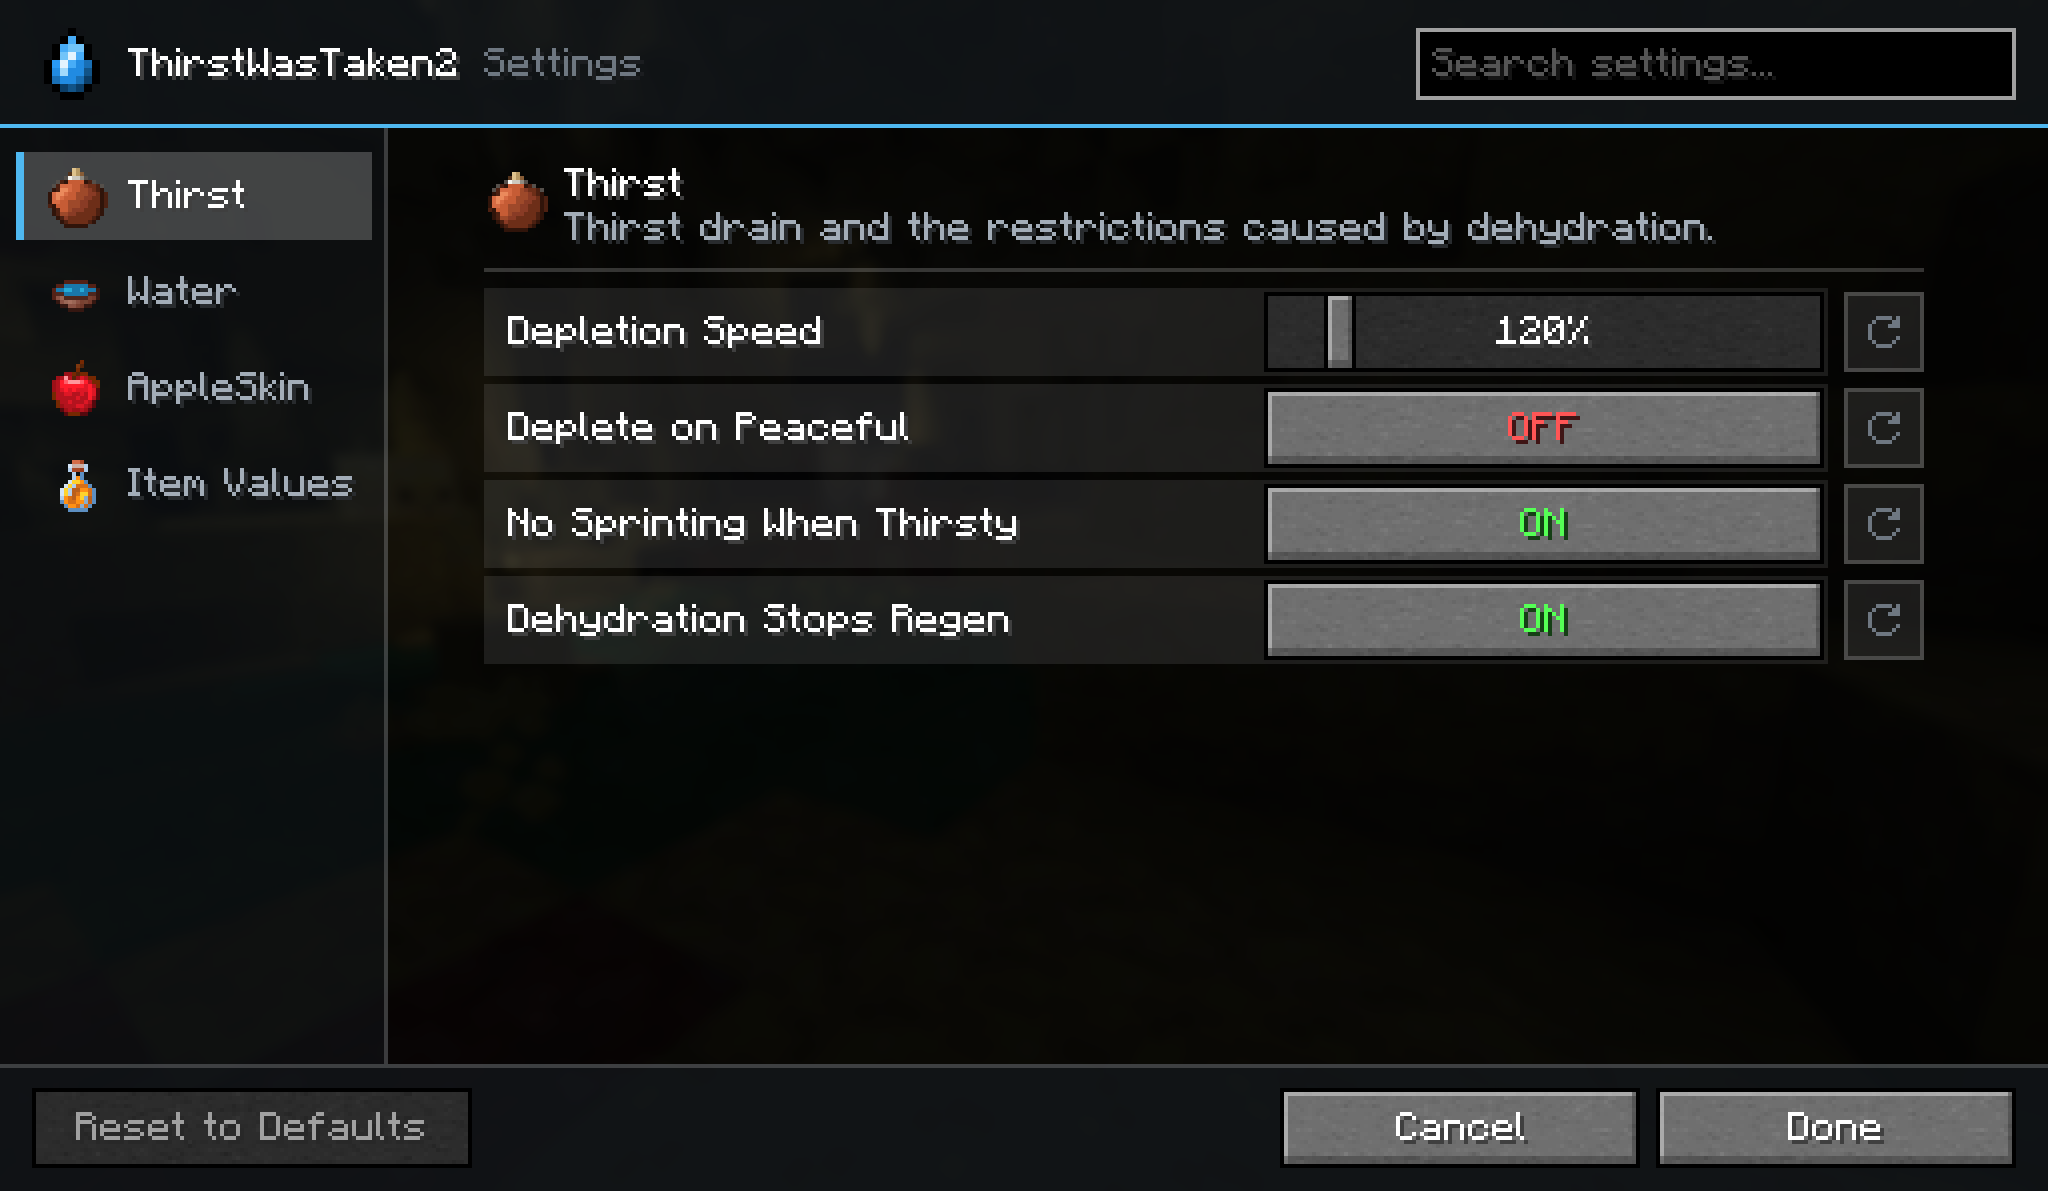
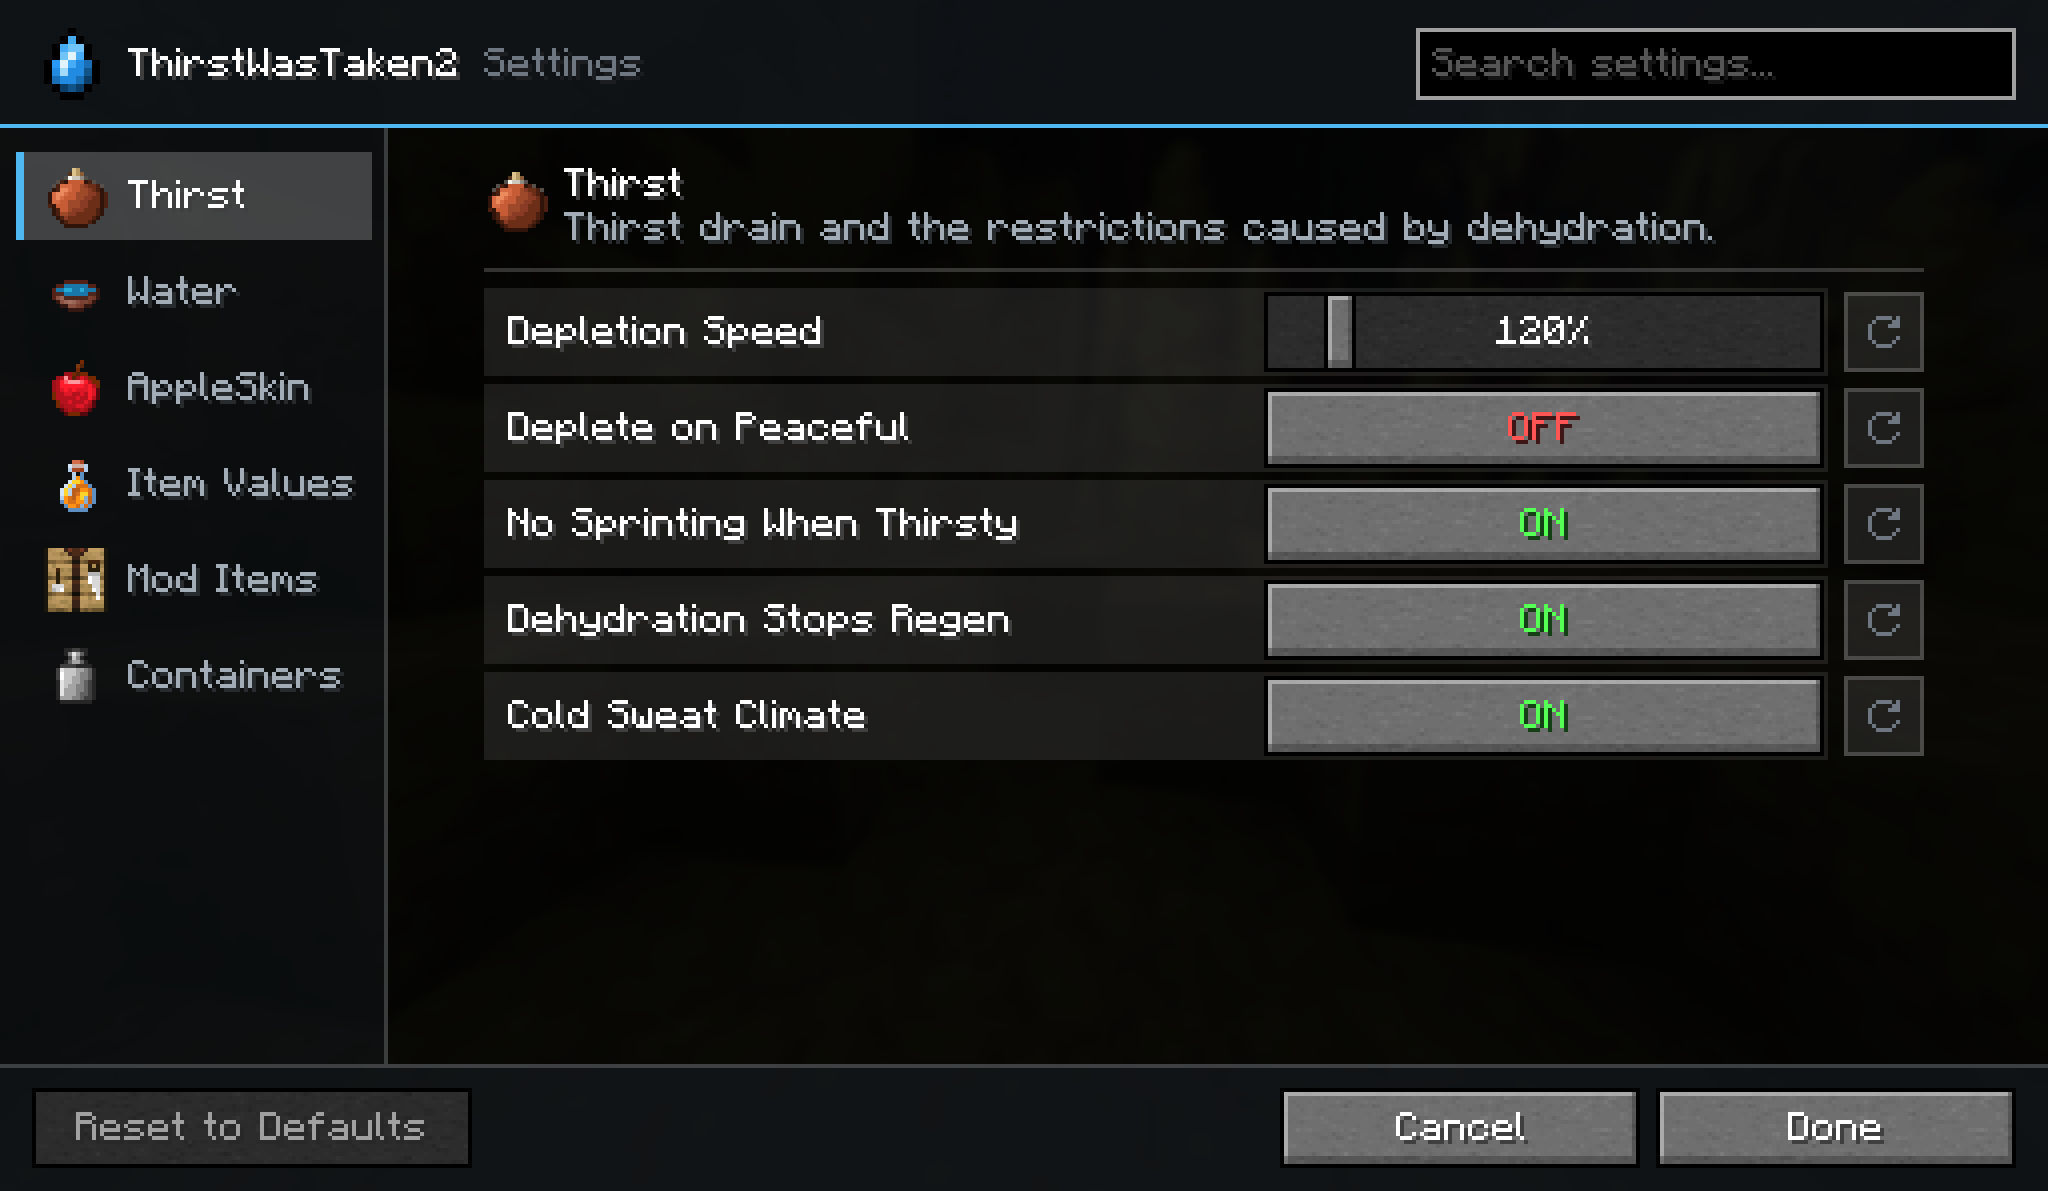
docs: retake config screenshots with the new pages, and add Water, Mod Items and Containers images

Changed region(s): [[0.5938, 0.5592, 0.9375, 0.6524], [0.25, 0.5592, 0.5312, 0.6524], [0.0, 0.4349, 0.1875, 0.5903]]

diff --git a/docs/docs/configuration.md b/docs/docs/configuration.md
@@ -41,6 +41,8 @@ the player, hearths and shade included, instead of the biome's. Does nothing wit
 
 ## Water
 
+![The Water page scrolled down to the new settings: quenched by grade, sea water, rain and dripstone](/screenshots/config/config-water.png)
+
 ### sicknessPreset
 
 Default `REALISTIC`. How bad water makes players ill.
@@ -148,6 +150,8 @@ Words that stop a guess, so `melon_seed` is not treated as fruit. Only applies t
 
 ## Mod items
 
+![The Mod Items page: one switch per item, under a note that changes apply after /reload](/screenshots/config/config-mod-items.png)
+
 For a modpack that brings its own canteen or pot. A switch that is off stops the item being crafted
 and hides it from the creative tab. Items that already exist keep working, and the item stays in the
 game, so worlds that hold one still load.
@@ -178,6 +182,8 @@ Default `true`. The Iron Flask, and cleaning its water in a furnace.
 Default `true`. The Copper Hanging Pot and the Iron Hanging Pot, one switch each.
 
 ## Containers
+
+![The Containers page: canteen and flask capacity, boiling in hand, and boil times](/screenshots/config/config-containers.png)
 
 ### copperCanteenCapacity and ironFlaskCapacity
 
